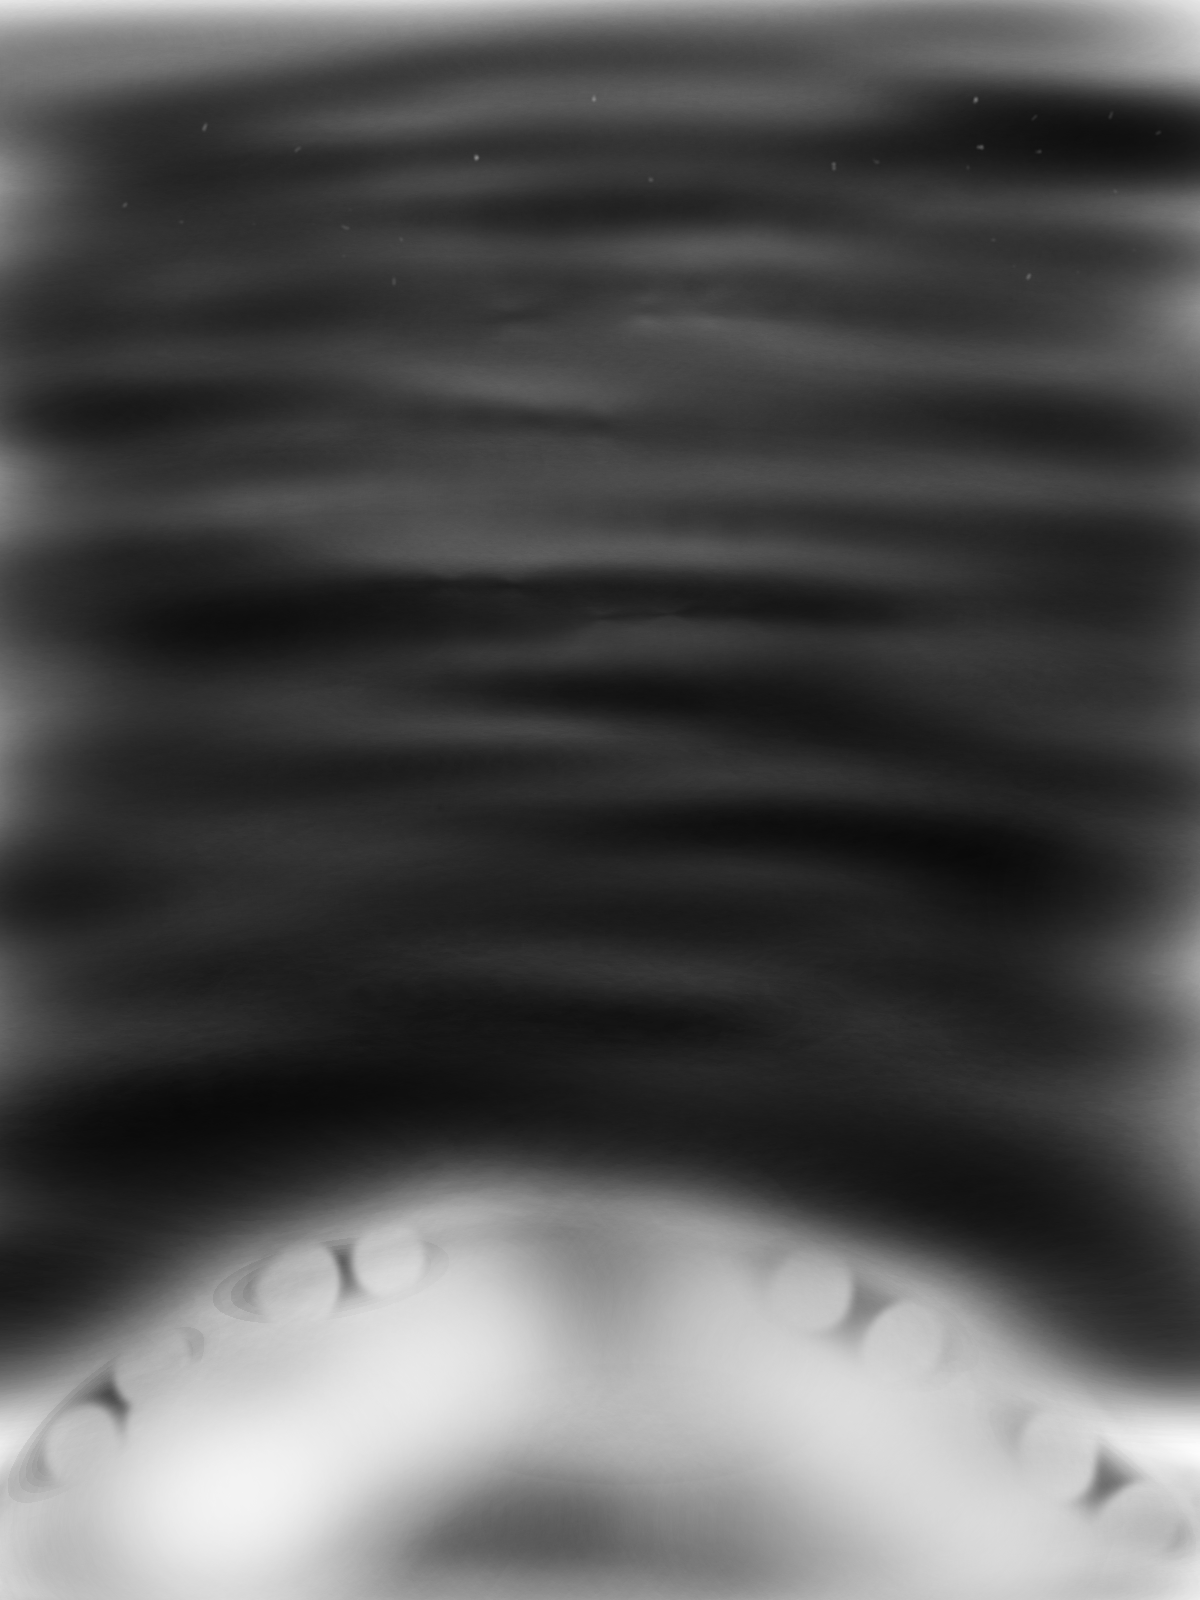
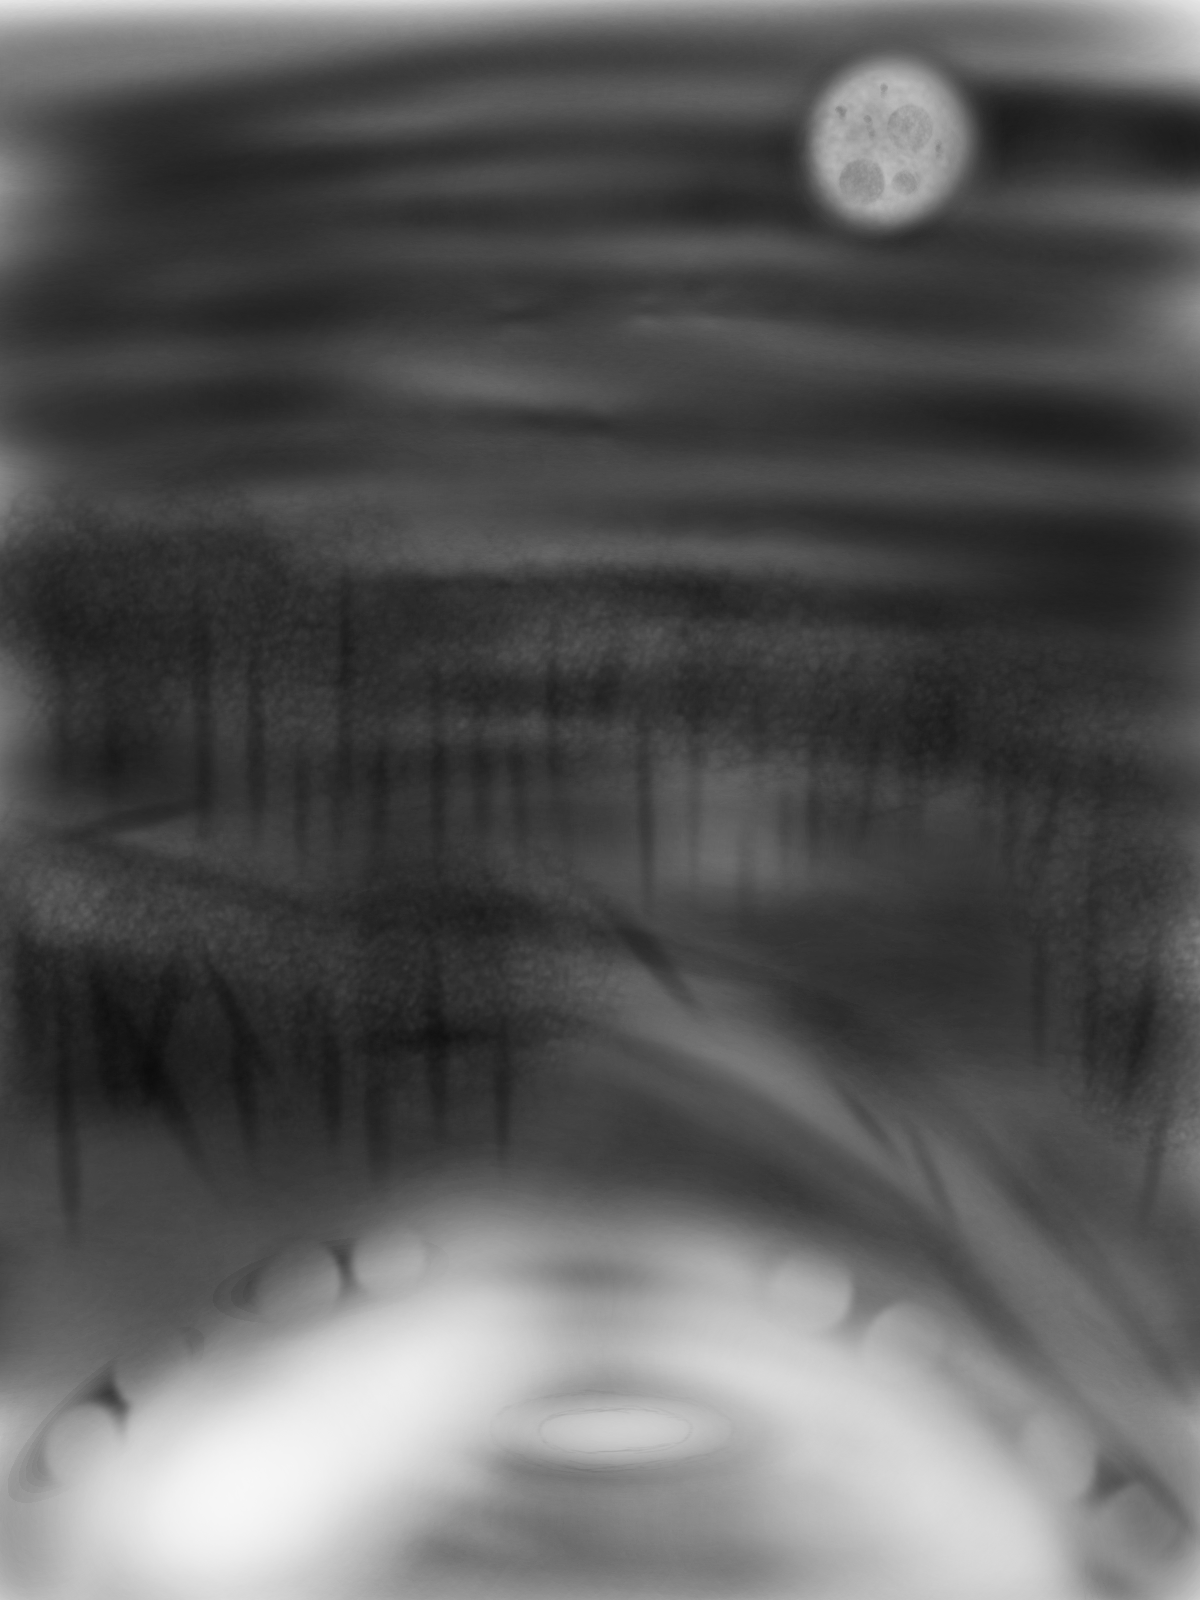
-changed my Ship class following Star class example - added new textures - added and positioned new Ship class object on the screen

diff --git a/core/src/ru/makproductions/geekbrains/gameproject/screens/menu/MenuScreen.java b/core/src/ru/makproductions/geekbrains/gameproject/screens/menu/MenuScreen.java
@@ -46,6 +46,7 @@ public class MenuScreen extends Base2DScreen {
             stars[i] = new Star(atlas.findRegion("Star")
                     , vx, vy, starWidth);
         }
+        ship = new Ship(atlas.findRegion("Ship"),0,0,0.2f,new Vector2(0f,-0.2f));
     }
 
     @Override
@@ -54,6 +55,7 @@ public class MenuScreen extends Base2DScreen {
         for (int i = 0; i < stars.length; i++) {
             stars[i].resize(worldBounds);
         }
+        ship.resize(worldBounds);
     }
 
     @Override
@@ -81,6 +83,7 @@ public class MenuScreen extends Base2DScreen {
         for (int i = 0; i < stars.length; i++) {
             stars[i].draw(batch);
         }
+        ship.draw(batch);
         batch.end();
     }
 
@@ -93,12 +96,12 @@ public class MenuScreen extends Base2DScreen {
     @Override
     public boolean keyDown(int keycode) {
         //System.out.println("Key "+ keycode + " Down");
-        if(keycode == Input.Keys.A){
-            ship.setX(ship.getX() - ship.getSpeed());
-        }
-        if(keycode == Input.Keys.D){
-            ship.setX(ship.getX() + ship.getSpeed());
-        }
+//        if(keycode == Input.Keys.A){
+//            ship.setX(ship.getX() - ship.getSpeed());
+//        }
+//        if(keycode == Input.Keys.D){
+//            ship.setX(ship.getX() + ship.getSpeed());
+//        }
         return super.keyDown(keycode);
     }
 
@@ -117,9 +120,9 @@ public class MenuScreen extends Base2DScreen {
     @Override
     public boolean touchDown(int screenX, int screenY, int pointer, int button) {
        // System.out.println("Screen touchedDown: x:" + screenX + " y:"+screenY);
-        if(screenX <600 && screenX > 50 && screenY > 260 && screenY < 330){
-            ship.setEngineStarted(true);
-        }
+//        if(screenX <600 && screenX > 50 && screenY > 260 && screenY < 330){
+//            ship.setEngineStarted(true);
+//        }
         return super.touchDown(screenX, screenY, pointer, button);
     }
 

diff --git a/core/src/ru/makproductions/geekbrains/gameproject/Ship.java b/core/src/ru/makproductions/geekbrains/gameproject/Ship.java
@@ -1,37 +1,49 @@
 package ru.makproductions.geekbrains.gameproject;
 
-import com.badlogic.gdx.graphics.Texture;
-import com.badlogic.gdx.graphics.g2d.Sprite;
+
 import com.badlogic.gdx.graphics.g2d.SpriteBatch;
+import com.badlogic.gdx.graphics.g2d.TextureRegion;
+import com.badlogic.gdx.math.Vector2;
+
+import ru.makproductions.geekbrains.gameproject.engine.ru.makproductions.gameproject.engine.math.Rect;
+import ru.makproductions.geekbrains.gameproject.engine.ru.makproductions.gameproject.engine.math.Rnd;
+import ru.makproductions.geekbrains.gameproject.engine.sprites.Sprite;
 
 public class Ship extends Sprite {
+
+    private Rect worldBounds;
+    private Vector2 speed = new Vector2();
+
     private boolean engineStarted;
-    private float speed = 0f;
     private float acceleration = 0.0003f;
 
-    public float getSpeed() {
-        return speed;
+    public Vector2 getSpeed() {
+        return this.speed;
     }
 
-    public Ship(){
-        super(new Texture("Ship.png"));
-        setX(-0.1f);
-        setY(-0.4f);
+    public Ship(TextureRegion region, float vx, float vy, float width,Vector2 position){
+        super(region);
+        speed.set(vx,vy);
+        setWidthProportion(width);
+        this.position.set(position);
     }
+
+    @Override
+    public void resize(Rect worldBounds) {
+        this.worldBounds = worldBounds;
+    }
+
 
     public void setEngineStarted(boolean engineStarted) {
         this.engineStarted = engineStarted;
     }
 
-    public void draw(SpriteBatch batch){
-        batch.draw(this, getX(),getY(),0.3f,0.3f);
-        if(engineStarted)startEngine(batch);
-    }
+//    public void draw(SpriteBatch batch){
+//
+//        if(engineStarted)startEngine(batch);
+//    }
 
     public void startEngine(SpriteBatch batch){
-        batch.draw(new Texture("Fire.png"),getX()-0.02f,getY() - 0.2f,0.3f,0.3f);
-        this.setY(this.getY()+ speed);
-        speed += acceleration;
     }
 
 }
